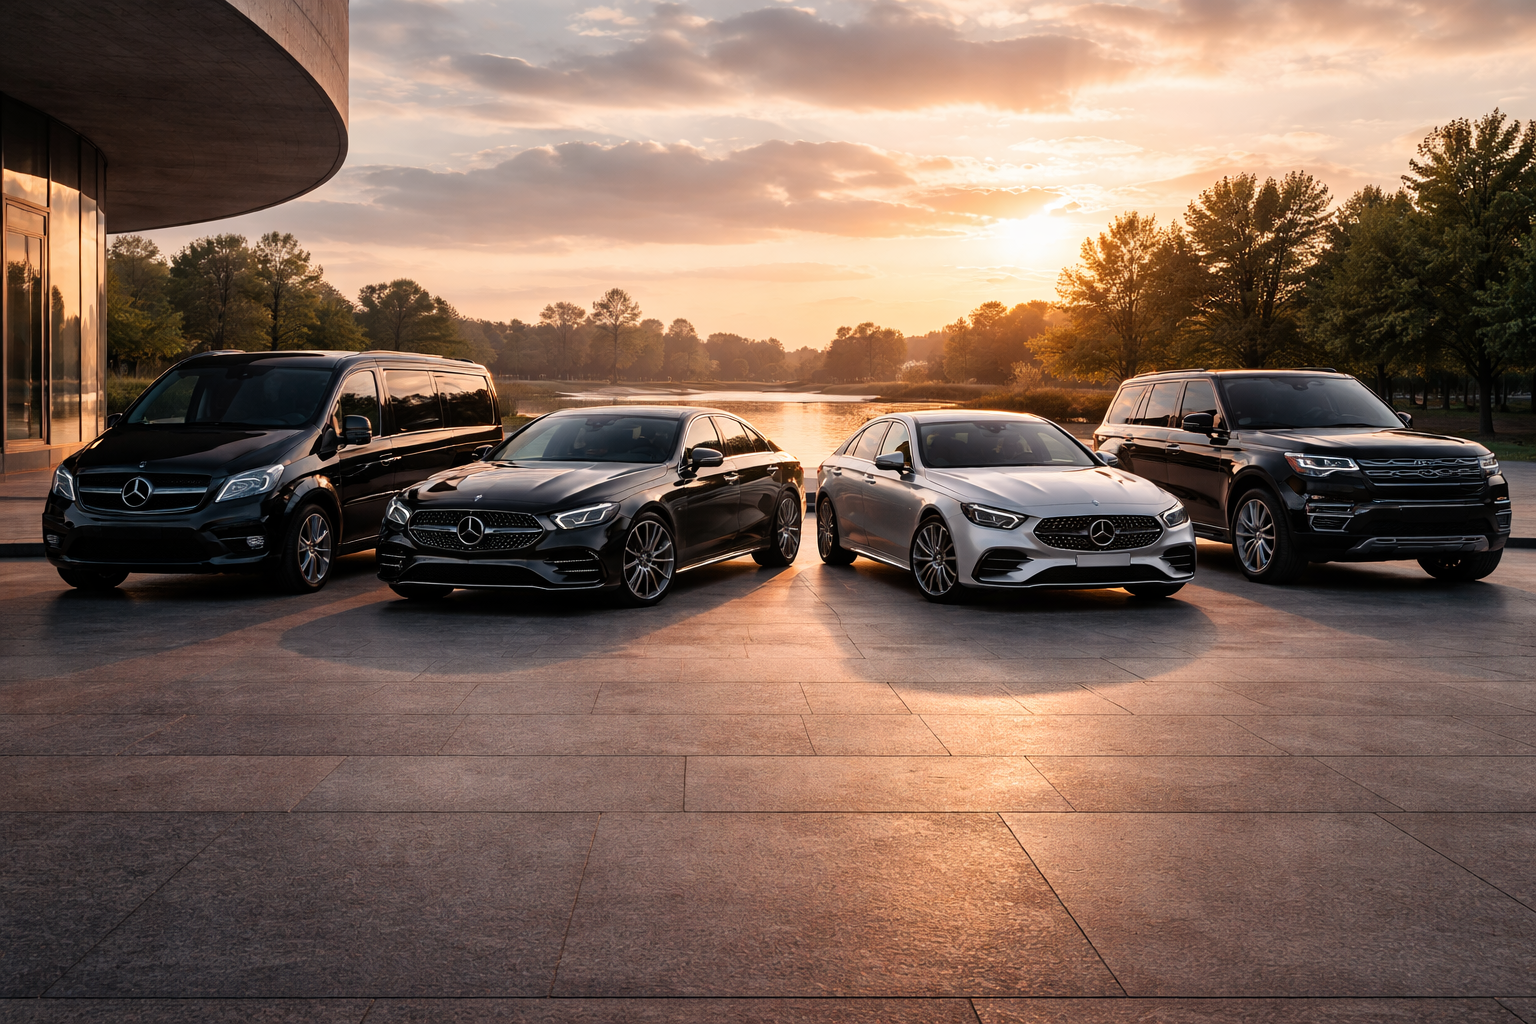
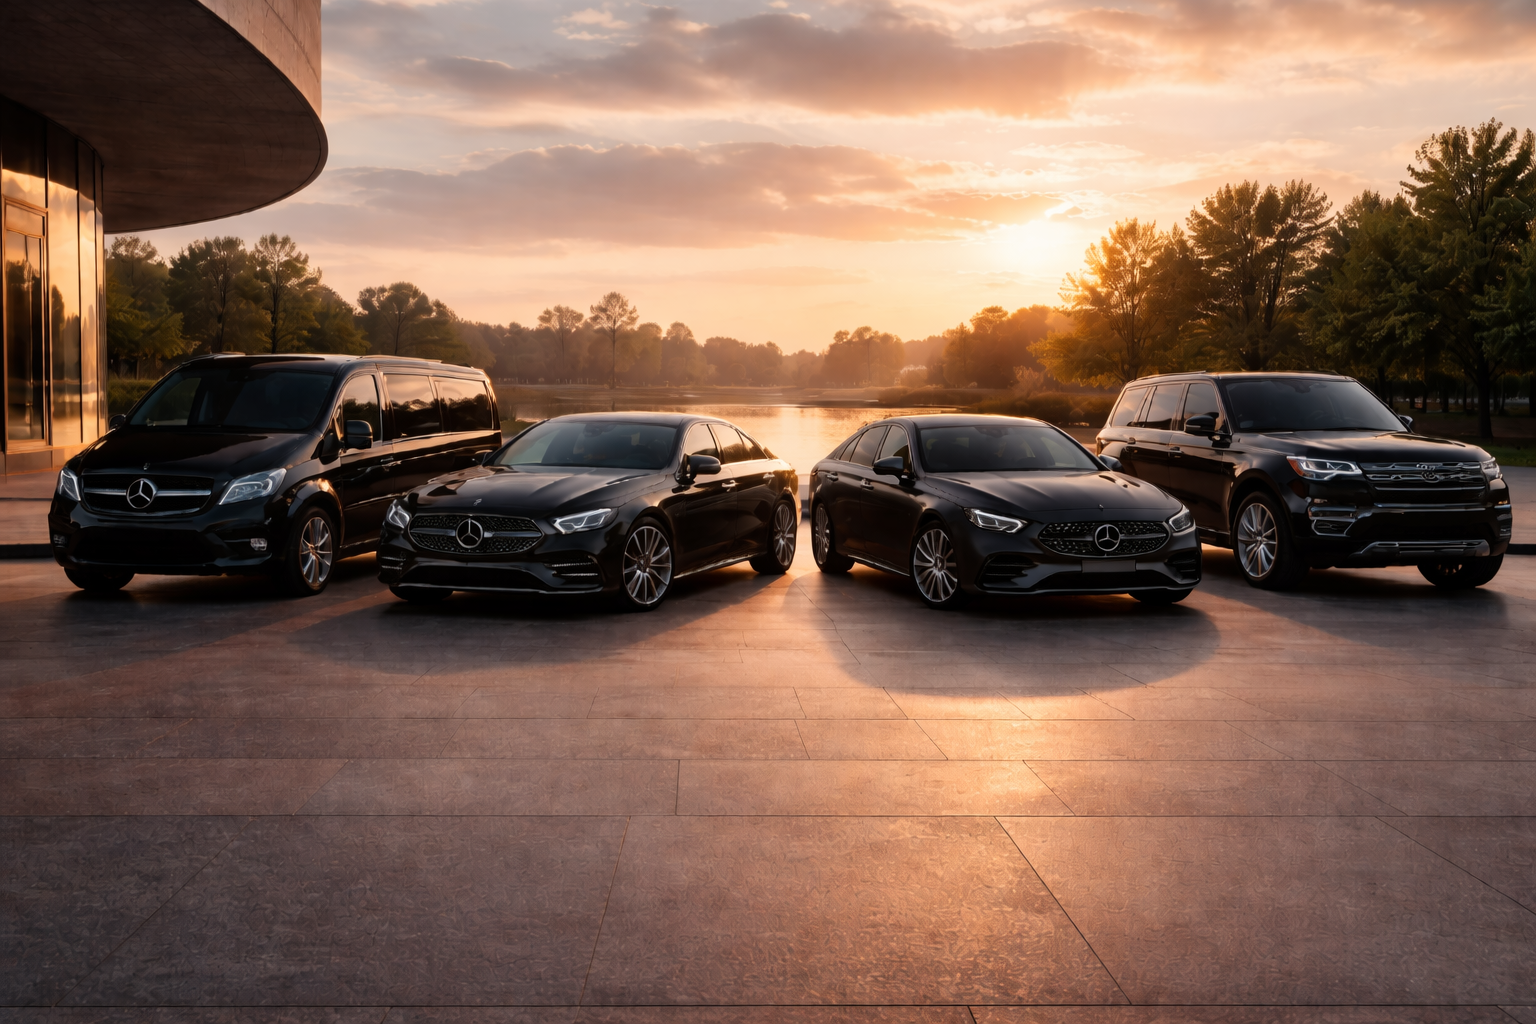
fleet second version

diff --git a/apps/frontend/src/i18n.js b/apps/frontend/src/i18n.js
@@ -194,21 +194,25 @@ const resources = {
         }
       },
       fleetPage: {
-        eyebrow: "Notre flotte",
-        titleLine1: "Des véhicules",
-        titleLine2: "d’exception",
-        text1:
-          "CBM met à votre disposition une flotte premium sélectionnée pour répondre aux exigences d’une clientèle recherchant confort, discrétion et excellence de service.",
-        text2:
-          "Que ce soit pour un transfert privé, une mise à disposition, un événement ou un déplacement professionnel, nos véhicules offrent une expérience premium avec chauffeur.",
-        text3:
-          "Notre sélection comprend des berlines premium, des vans premium et des SUV emblématiques, parfaitement adaptés à tous types de trajets.",
+        hero: {
+          title: "L’excellence du transport premium",
+          subtitle:
+            "Découvrez une sélection de véhicules d’exception alliant élégance, confort et prestige pour chacun de vos trajets.",
+          cta: "Découvrir la flotte"
+        },
+        cta: "En savoir plus",
         vehicles: {
           mercedesSE: {
-            alt: "Mercedes Classe S ou Classe E",
-            title: "Mercedes Classe S / Classe E",
+            alt: "Mercedes Classe S",
+            title: "Class S",
             text:
-              "Berlines élégantes pour vos transferts et rendez-vous premium."
+              "Expérimentez l’excellence du transport avec notre Classe S. Un service ultra premium alliant confort absolu, discrétion et prestations haut de gamme pour vos trajets les plus exigeants."
+          },
+          mercedesE: {
+            alt: "Mercedes Classe E",
+            title: "Class E",
+            text:
+              "Une solution premium idéale pour vos déplacements quotidiens. Profitez d’un confort supérieur et d’un service élégant."
           },
           mercedesV: {
             alt: "Mercedes Classe V",
@@ -490,26 +494,31 @@ const resources = {
         }
       },
       fleetPage: {
-        eyebrow: "Our fleet",
-        titleLine1: "Exceptional",
-        titleLine2: "vehicles",
-        text1:
-          "CBM provides you with a premium fleet selected to meet the expectations of clients seeking comfort, discretion, and excellence in service.",
-        text2:
-          "Whether for a private transfer, hourly service, an event, or a business trip, our vehicles offer a premium chauffeured experience.",
-        text3:
-          "Our selection includes premium sedans, premium vans, and iconic SUVs, perfectly suited to all types of journeys.",
+        hero: {
+          title: "The excellence of high-end transportation",
+          subtitle:
+            "Discover a selection of exceptional vehicles combining elegance, comfort and prestige for each of your journeys.",
+          cta: "Discover the fleet"
+        },
+        cta: "Learn more",
         vehicles: {
           mercedesSE: {
-            alt: "Mercedes S-Class or E-Class",
-            title: "Mercedes S-Class / E-Class",
+            alt: "Mercedes S-Class",
+            title: "S Class",
             text:
-              "Elegant sedans for your premium transfers and appointments."
+              "Experience transport excellence with our S Class. An ultra-premium service combining absolute comfort, discretion and high-end amenities for your most demanding journeys."
+          },
+          mercedesE: {
+            alt: "Mercedes E-Class",
+            title: "E Class",
+            text:
+              "An ideal premium solution for your daily trips. Enjoy superior comfort and elegant service while remaining more accessible than the S Class."
           },
           mercedesV: {
             alt: "Mercedes V-Class",
             title: "Mercedes V-Class",
-            text: "Ideal for groups, families, and business travel."
+            text:
+              "Ideal for groups, families, and business travel."
           },
           rangeRover: {
             alt: "Range Rover",
@@ -786,26 +795,31 @@ const resources = {
         }
       },
       fleetPage: {
-        eyebrow: "Filomuz",
-        titleLine1: "Olağanüstü",
-        titleLine2: "araçlar",
-        text1:
-          "CBM, konfor, gizlilik ve hizmette mükemmellik arayan seçkin müşterilerin beklentilerini karşılamak için özenle seçilmiş premium bir filo sunar.",
-        text2:
-          "İster özel transfer, ister araç tahsisi, etkinlik ya da iş seyahati olsun, araçlarımız şoförlü premium bir deneyim sunar.",
-        text3:
-          "Seçkimiz; premium sedanlar, premium vanlar ve ikonik SUV modellerinden oluşur ve her türlü yolculuk için mükemmel şekilde uygundur.",
+        hero: {
+          title: "Üst düzey ulaşımın mükemmelliği",
+          subtitle:
+            "Her yolculuğunuz için zarafet, konfor ve prestiji bir araya getiren seçkin araçlarımızı keşfedin.",
+          cta: "Filoyu keşfedin"
+        },
+        cta: "Daha fazla bilgi",
         vehicles: {
           mercedesSE: {
-            alt: "Mercedes S Serisi veya E Serisi",
-            title: "Mercedes S Serisi / E Serisi",
+            alt: "Mercedes S Serisi",
+            title: "S Serisi",
             text:
-              "Premium transferleriniz ve randevularınız için zarif sedanlar."
+              "S Serisi ile ulaşımın en seçkin halini deneyimleyin. En zorlu yolculuklarınız için mutlak konfor, gizlilik ve üst düzey hizmet sunan ultra premium bir deneyim."
+          },
+          mercedesE: {
+            alt: "Mercedes E Serisi",
+            title: "E Serisi",
+            text:
+              "Günlük yolculuklarınız için ideal premium çözüm. S Serisi’nden daha erişilebilir kalırken üstün konfor ve zarif hizmetin keyfini çıkarın."
           },
           mercedesV: {
             alt: "Mercedes V Serisi",
             title: "Mercedes V Serisi",
-            text: "Gruplar, aileler ve iş seyahatleri için idealdir."
+            text:
+              "Gruplar, aileler ve iş seyahatleri için idealdir."
           },
           rangeRover: {
             alt: "Range Rover",
@@ -1082,26 +1096,31 @@ const resources = {
         }
       },
       fleetPage: {
-        eyebrow: "Unsere Flotte",
-        titleLine1: "Außergewöhnliche",
-        titleLine2: "Fahrzeuge",
-        text1:
-          "CBM stellt Ihnen eine Premium-Flotte zur Verfügung, die ausgewählt wurde, um die Erwartungen einer Kundschaft zu erfüllen, die Komfort, Diskretion und exzellenten Service sucht.",
-        text2:
-          "Ob Privattransfer, Bereitstellung, Veranstaltung oder Geschäftsreise - unsere Fahrzeuge bieten ein Premium-Erlebnis mit Chauffeur.",
-        text3:
-          "Unsere Auswahl umfasst Premium-Limousinen, Premium-Vans und ikonische SUVs, perfekt geeignet für jede Art von Fahrt.",
+        hero: {
+          title: "Die Exzellenz des gehobenen Transports",
+          subtitle:
+            "Entdecken Sie eine Auswahl außergewöhnlicher Fahrzeuge, die Eleganz, Komfort und Prestige für jede Ihrer Fahrten vereinen.",
+          cta: "Die Flotte entdecken"
+        },
+        cta: "Mehr erfahren",
         vehicles: {
           mercedesSE: {
-            alt: "Mercedes S-Klasse oder E-Klasse",
-            title: "Mercedes S-Klasse / E-Klasse",
+            alt: "Mercedes S-Klasse",
+            title: "S-Klasse",
             text:
-              "Elegante Limousinen für Ihre Premium-Transfers und Termine."
+              "Erleben Sie Transport auf höchstem Niveau mit unserer S-Klasse. Ein ultra-premium Service mit absolutem Komfort, Diskretion und exklusiven Leistungen für Ihre anspruchsvollsten Fahrten."
+          },
+          mercedesE: {
+            alt: "Mercedes E-Klasse",
+            title: "E-Klasse",
+            text:
+              "Eine ideale Premium-Lösung für Ihre täglichen Fahrten. Genießen Sie hohen Komfort und eleganten Service, während sie zugänglicher als die S-Klasse bleibt."
           },
           mercedesV: {
             alt: "Mercedes V-Klasse",
             title: "Mercedes V-Klasse",
-            text: "Ideal für Gruppen, Familien und Geschäftsreisen."
+            text:
+              "Ideal für Gruppen, Familien und Geschäftsreisen."
           },
           rangeRover: {
             alt: "Range Rover",
@@ -1378,26 +1397,31 @@ const resources = {
         }
       },
       fleetPage: {
-        eyebrow: "รถของเรา",
-        titleLine1: "รถระดับ",
-        titleLine2: "พรีเมียม",
-        text1:
-          "CBM ให้บริการรถระดับพรีเมียมที่ได้รับการคัดสรร เพื่อตอบโจทย์ลูกค้าที่มองหาความสะดวกสบาย ความเป็นส่วนตัว และความเป็นเลิศด้านการบริการ",
-        text2:
-          "ไม่ว่าจะเป็นการรับส่งส่วนตัว การให้บริการพร้อมรถและคนขับ งานอีเวนต์ หรือการเดินทางเพื่อธุรกิจ รถของเรามอบประสบการณ์ระดับพรีเมียมพร้อมคนขับ",
-        text3:
-          "เราคัดสรรทั้งรถซีดานพรีเมียม รถแวนพรีเมียม และ SUV ระดับไอคอน ที่เหมาะกับการเดินทางทุกรูปแบบ",
+        hero: {
+          title: "ความเป็นเลิศของบริการเดินทางระดับสูง",
+          subtitle:
+            "ค้นพบรถระดับพรีเมียมที่ผสานความสง่างาม ความสบาย และภาพลักษณ์อันโดดเด่นในทุกการเดินทางของคุณ",
+          cta: "ดูรถของเรา"
+        },
+        cta: "ดูเพิ่มเติม",
         vehicles: {
           mercedesSE: {
-            alt: "Mercedes Classe S หรือ Classe E",
-            title: "Mercedes Classe S / Classe E",
+            alt: "Mercedes S-Class",
+            title: "S Class",
             text:
-              "รถซีดานหรูสำหรับการรับส่งและนัดหมายระดับพรีเมียมของคุณ"
+              "สัมผัสความเป็นเลิศของการเดินทางกับ S Class ของเรา บริการ ultra premium ที่รวมความสบายสูงสุด ความเป็นส่วนตัว และการบริการระดับสูงสำหรับทุกเส้นทางสำคัญของคุณ"
+          },
+          mercedesE: {
+            alt: "Mercedes E-Class",
+            title: "E Class",
+            text:
+              "ทางเลือก premium ที่เหมาะสำหรับการเดินทางประจำวันของคุณ เพลิดเพลินกับความสบายที่เหนือกว่าและบริการที่หรูหรา ในระดับที่เข้าถึงได้มากกว่า S Class"
           },
           mercedesV: {
-            alt: "Mercedes Classe V",
-            title: "Mercedes Classe V",
-            text: "เหมาะสำหรับกลุ่ม ครอบครัว และการเดินทางเพื่อธุรกิจ"
+            alt: "Mercedes V-Class",
+            title: "Mercedes V-Class",
+            text:
+              "เหมาะสำหรับกลุ่ม ครอบครัว และการเดินทางเพื่อธุรกิจ"
           },
           rangeRover: {
             alt: "Range Rover",
@@ -1670,30 +1694,37 @@ const resources = {
         }
       },
       fleetPage: {
-        eyebrow: "我们的车队",
-        titleLine1: "非凡",
-        titleLine2: "座驾",
-        text1:
-          "CBM 为您提供精心挑选的 Premium 车队，满足追求舒适、私密性与卓越服务品质客户的需求。",
-        text2:
-          "无论是私人接送、包车服务、活动出行还是商务行程，我们的车辆都能提供 Premium 司机服务体验。",
-        text3:
-          "我们的车型涵盖 Premium 轿车、Premium 商务车以及标志性 SUV，完美适配各种出行需求。",
+        hero: {
+          title: "高端出行的卓越体验",
+          subtitle:
+            "探索一系列兼具优雅、舒适与尊贵感的非凡车型，满足您的每一次出行需求。",
+          cta: "探索车队"
+        },
+        cta: "了解更多",
         vehicles: {
           mercedesSE: {
-            alt: "奔驰 S 级或 E 级",
-            title: "奔驰 S 级 / E 级",
-            text: "优雅轿车，适合您的 Premium 接送与商务会面。"
+            alt: "奔驰 S 级",
+            title: "S Class",
+            text:
+              "体验我们的 S Class 所带来的卓越出行服务。为您最重要的行程提供极致舒适、私密性与高端礼遇的 ultra premium 体验。"
+          },
+          mercedesE: {
+            alt: "奔驰 E 级",
+            title: "E Class",
+            text:
+              "适合日常出行的理想 premium 方案。在比 S Class 更易接近的定位下，依然享受更高舒适度与优雅服务。"
           },
           mercedesV: {
             alt: "奔驰 V 级",
-            title: "奔驰 V 级",
-            text: "非常适合团体、家庭和商务出行。"
+            title: "Mercedes V-Class",
+            text:
+              "非常适合团体、家庭和商务出行。"
           },
           rangeRover: {
             alt: "揽胜",
             title: "Range Rover",
-            text: "Premium SUV，兼具气场、空间与极致舒适。"
+            text:
+              "兼具气场、空间与极致舒适的 premium SUV。"
           }
         }
       },

diff --git a/apps/frontend/src/pages/Fleet.js b/apps/frontend/src/pages/Fleet.js
@@ -6,7 +6,7 @@ import "../styles/Fleet.css";
 // Import des images
 import fleetHero from "../assets/fleet-hero.jpg";
 import mercedesS from "../assets/class-S.png";
-import mercedesE from "../assets/class-E.png";
+import mercedesE from "../assets/class-E-black.png";
 import mercedesV from "../assets/class-V.png";
 import rangeRover from "../assets/range-rover.png";
 
@@ -56,8 +56,6 @@ function Fleet() {
   return (
     <div className="fleet-page">
       <section className="fleet">
-
-        {/* HERO */}
         <motion.section
           className="fleet-hero"
           initial={{ opacity: 0, scale: 1.02 }}
@@ -74,7 +72,7 @@ function Fleet() {
               animate={{ opacity: 1, y: 0 }}
               transition={{ delay: 0.3 }}
             >
-              L’excellence du transport premium
+              {t("fleetPage.hero.title")}
             </motion.h1>
 
             <motion.p
@@ -83,8 +81,7 @@ function Fleet() {
               animate={{ opacity: 1, y: 0 }}
               transition={{ delay: 0.45 }}
             >
-              Découvrez une sélection de véhicules d’exception alliant
-              élégance, confort et prestige pour chacun de vos trajets.
+              {t("fleetPage.hero.subtitle")}
             </motion.p>
 
             <motion.div
@@ -94,13 +91,12 @@ function Fleet() {
               transition={{ delay: 0.6 }}
             >
               <a href="#fleet-grid" className="fleet-hero__btn">
-                Découvrir la flotte
+                {t("fleetPage.hero.cta")}
               </a>
             </motion.div>
           </div>
         </motion.section>
 
-        {/* GRID VEHICULES */}
         <motion.div
           id="fleet-grid"
           className="fleet__grid"
@@ -124,52 +120,21 @@ function Fleet() {
               </div>
 
               <div className="fleet-card-mini__content">
+                <h2 className="fleet-card-mini__title">
+                  {t(`fleetPage.vehicles.${vehicle.id}.title`)}
+                </h2>
 
-                {/* 🔥 PERSONNALISATION DES 2 PREMIÈRES CARDS */}
-                {vehicle.id === "mercedesSE" ? (
-                  <>
-                    <h2 className="fleet-card-mini__title">
-                      Class S
-                    </h2>
-
-                    <p className="fleet-card-mini__description">
-                      Expérimentez l’excellence du transport avec notre Classe S.
-                      Un service ultra premium alliant confort absolu, discrétion et
-                      prestations premium pour vos trajets les plus exigeants.
-                    </p>
-                  </>
-                ) : vehicle.id === "mercedesE" ? (
-                  <>
-                    <h2 className="fleet-card-mini__title">
-                      Class E
-                    </h2>
-
-                    <p className="fleet-card-mini__description">
-                      Une solution premium idéale pour vos déplacements quotidiens.
-                      Profitez d’un confort supérieur et d’un service élégant,
-                      tout en restant plus accessible que la Classe S.
-                    </p>
-                  </>
-                ) : (
-                  <>
-                    <h2 className="fleet-card-mini__title">
-                      {t(`fleetPage.vehicles.${vehicle.id}.title`)}
-                    </h2>
-
-                    <p className="fleet-card-mini__description">
-                      {t(`fleetPage.vehicles.${vehicle.id}.text`)}
-                    </p>
-                  </>
-                )}
+                <p className="fleet-card-mini__description">
+                  {t(`fleetPage.vehicles.${vehicle.id}.text`)}
+                </p>
 
                 <Link to={vehicle.path} className="btn-know-more">
-                  En savoir plus
+                  {t("fleetPage.cta")}
                 </Link>
               </div>
             </motion.article>
           ))}
         </motion.div>
-
       </section>
     </div>
   );
